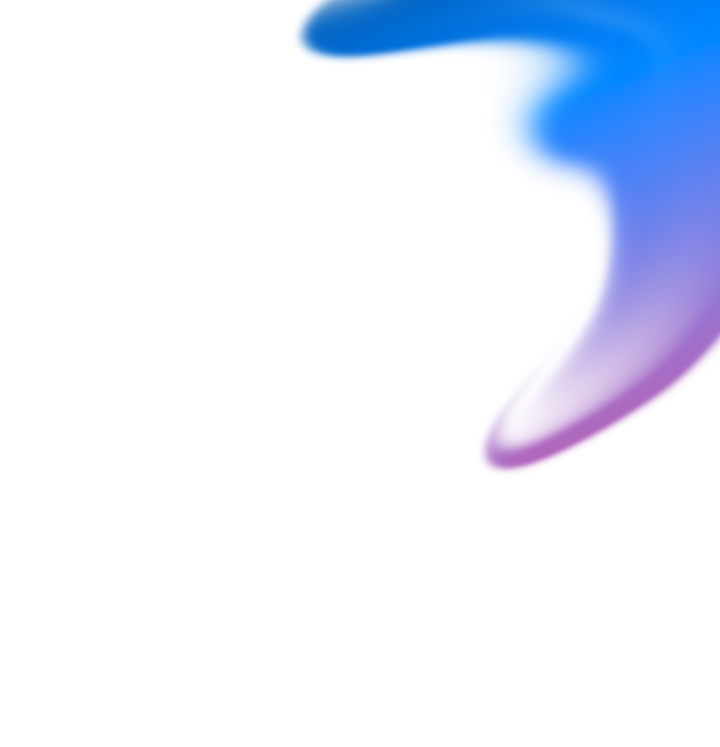
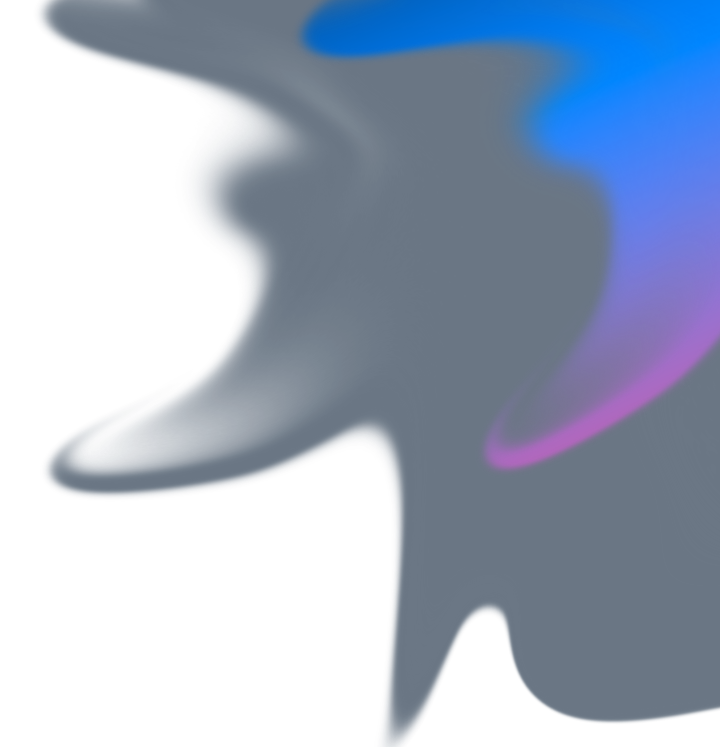
import ilu assets

diff --git a/src/app/components/sections/hero/hero.section.tsx b/src/app/components/sections/hero/hero.section.tsx
@@ -5,11 +5,8 @@ import Button from '../../button/button.component'
 import Link from 'next/link'
 import Image, {StaticImageData} from 'next/image'
 
-import homePageConfig from '../../../config/home.page.json'
-import polkadotFrancophonie from '../../../../public/assets/partners/polkadot-francophonie.png'
-import frenchFederationOfBlockchainProfessionals from '../../../../public/assets/partners/french-federation-of-blockchain-professionals.png'
-import blockchainInnov from '../../../../public/assets/partners/blockchain-innov.png'
-import blockchainHec from '../../../../public/assets/partners/blockchain-hec.png'
+import topRightIlu from '../../../../../public/assets/hero-section/top-right-ilu.png'
+import topLeftIlu from '../../../../../public/assets/hero-section/top-left-ilu.png'
 
 export interface IProps {
   place?: string
@@ -54,7 +51,24 @@ const HeroSection = ({
 
 
   return (
-    <section className='pt-[1rem] md:pt-[6rem] mb-[8rem]'>
+    <section className='pt-[11rem] md:pt-[16rem] mb-[8rem] relative'>
+      
+      <div className='absolute top-0 right-0 w-[40%] h-[40%] z-[-1]'>
+        <Image
+          src={topRightIlu}
+          alt="top right ilu"
+          className='object-contain'
+        />
+      </div>
+
+      <div className='absolute top-0 left-0 w-[40%] h-[40%] z-[-1]'>
+        <Image
+          src={topLeftIlu}
+          alt="top left ilu"
+          className='object-contain'
+        />
+      </div>
+
       <Container>
         {place && <p className="text-[1.45rem] sm:text-[1.9rem] font-black text-center">{place}</p>}
         {date && <p className="text-[1.45rem] sm:text-[1.9rem] font-black text-center">{date}</p>}

diff --git a/src/app/components/footer/footer.component.tsx b/src/app/components/footer/footer.component.tsx
@@ -4,18 +4,45 @@ import Container from '../container/container.component'
 import Image from 'next/image'
 
 import githubIcon from '../../../../public/assets/icons/github-icon.png'
+import bottomLeftIlu from '../../../../public/assets/footer/bottom-left.png'
+import buttomRightIlu from '../../../../public/assets/footer/bottom-right.png'
 
 const Footer = () => {
   return (
-    <footer>
+    <footer className="relative w-full">
+
+
       <Container>
         <div className="flex flex-col items-center justify-center">
-          <a href="#" target="_blank" rel="noopener noreferrer" className='block mb-[1.94rem]'>
+          <a
+            href="#"
+            target="_blank"
+            rel="noopener noreferrer"
+            className="block mb-[1.94rem]"
+          >
             <Image src={githubIcon} alt="github icon" />
           </a>
-          <p className='text-center text-[1.6rem] md:text-[2.8rem] color-[#DDDDDD]'>PDotComm ASBL 10, Giällewee, L-9749 Clervaux</p>
+          <p className="text-center text-[1.6rem] md:text-[2.8rem] color-[#DDDDDD]">
+            PDotComm ASBL 10, Giällewee, L-9749 Clervaux
+          </p>
         </div>
       </Container>
+
+      <div className="absolute bottom-0 left-0  w-[30%] z-[-1]">
+        <Image
+          src={bottomLeftIlu}
+          alt="bottom left ilu"
+          className="object-contain"
+        />
+      </div>
+
+      <div className="absolute bottom-0 right-0 w-[20%] z-[-1]">
+        <Image
+          src={buttomRightIlu}
+          alt="bottom right ilu"
+          className="object-contain"
+        />
+      </div>
     </footer>
   )
 }

diff --git a/src/app/components/program/program.component.tsx b/src/app/components/program/program.component.tsx
@@ -5,6 +5,9 @@ import React, { useState } from 'react'
 import SpeakerDescription from '@/app/components/speaker-description/speaker-description.component'
 import Container from '@/app/components/container/container.component'
 import Accordion from '@/app/components//accordion/accordion.component'
+import Image from 'next/image'
+
+import middleLeftIlu from '../../../../public/assets/program-section/middle-left-ilu.png'
 
 const Program = () => {
   const [program, setProgram] = useState([
@@ -843,7 +846,17 @@ At Polkadot Decoded, Bitgreen announced a partnership with Sequester to enable p
   }
 
   return (
-    <section id="conference" className='mb-[16.8rem]'>
+    <section id="conference" className='relative mb-[16.8rem]'>
+      <div className="absolute top-0 left-0 w-full h-full z-[-2]">
+        <Image
+          src={middleLeftIlu}
+          alt="Program background"
+          className='object-contain'
+      />
+
+      </div>
+
+
       <Container>
         <h2 className="text-center">PROGRAM</h2>
 

diff --git a/src/app/globals.css b/src/app/globals.css
@@ -26,7 +26,6 @@ body {
 
 main {
   position: relative;
-  padding: 10rem 0 0 ;
   overflow: hidden;
 }
 
